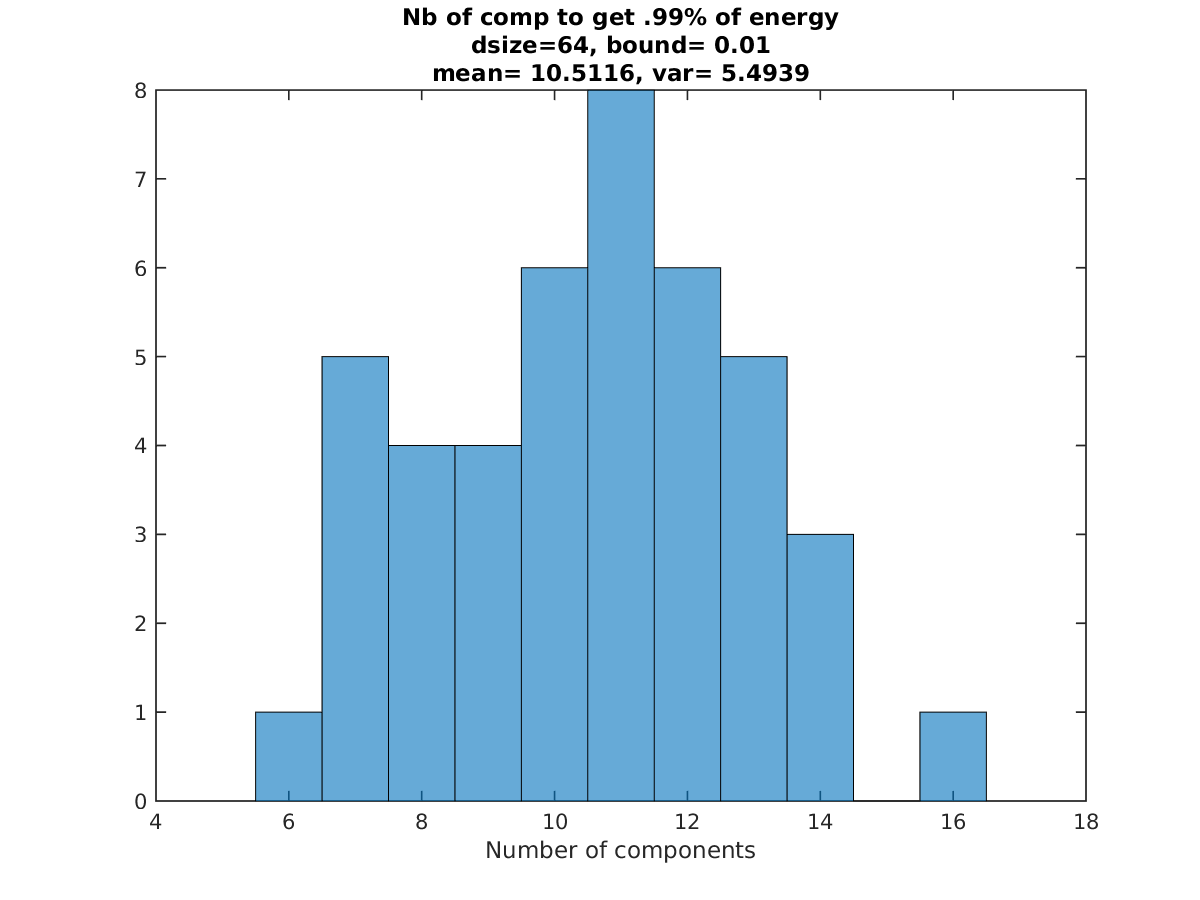
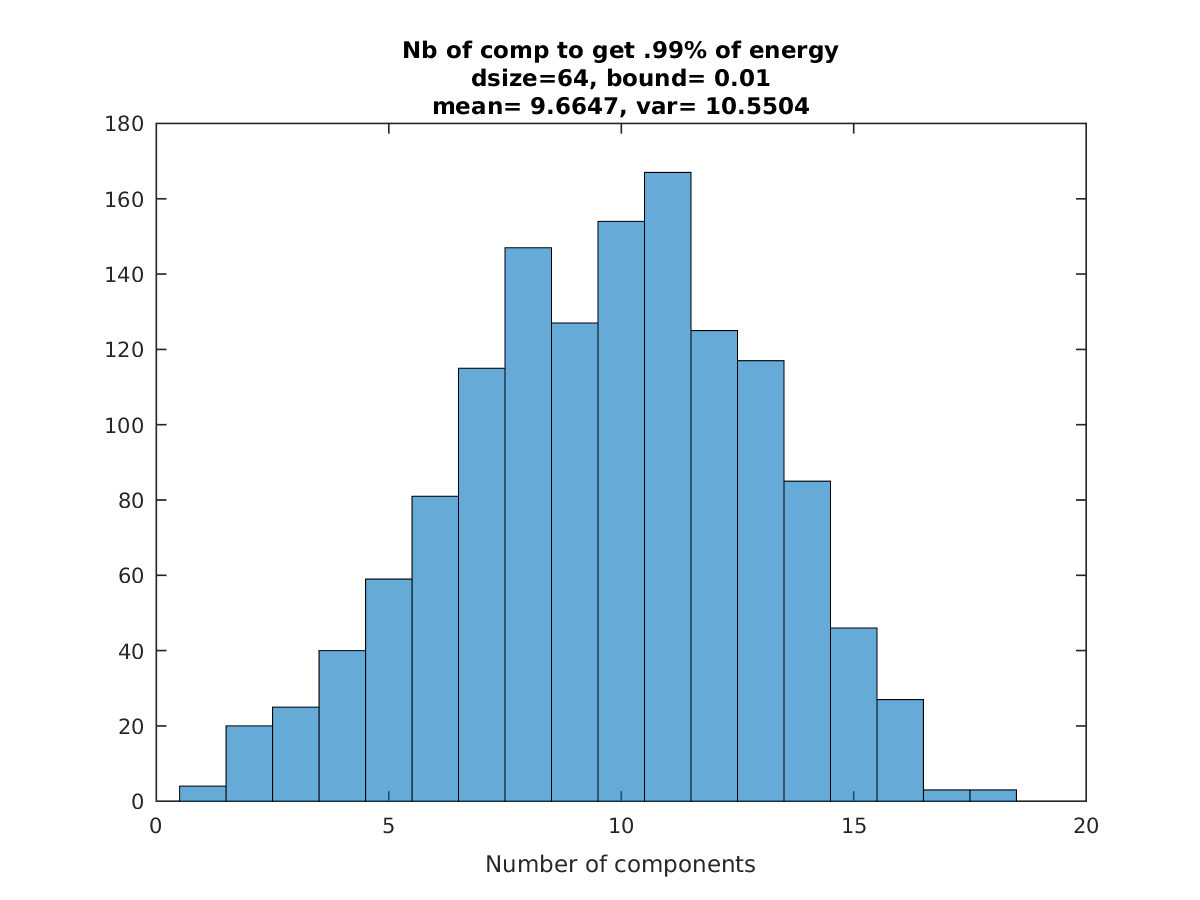
results

diff --git a/src/signalprocessing/MFCCreconstruction.m b/src/signalprocessing/MFCCreconstruction.m
@@ -31,8 +31,8 @@ D= Codebooks{1,idsize};%
 %Choose data
 load ../dataTest.mat
 % ISIGNAL= [round((length(DATA.rawSpeech)-1)*rand(1,20))+1];
-% ISIGNAL= [40:55];
-ISIGNAL=47;
+ISIGNAL= [40:55];
+% ISIGNAL=47;
 sparsity=[];
 t_=[];
 En_=[];
